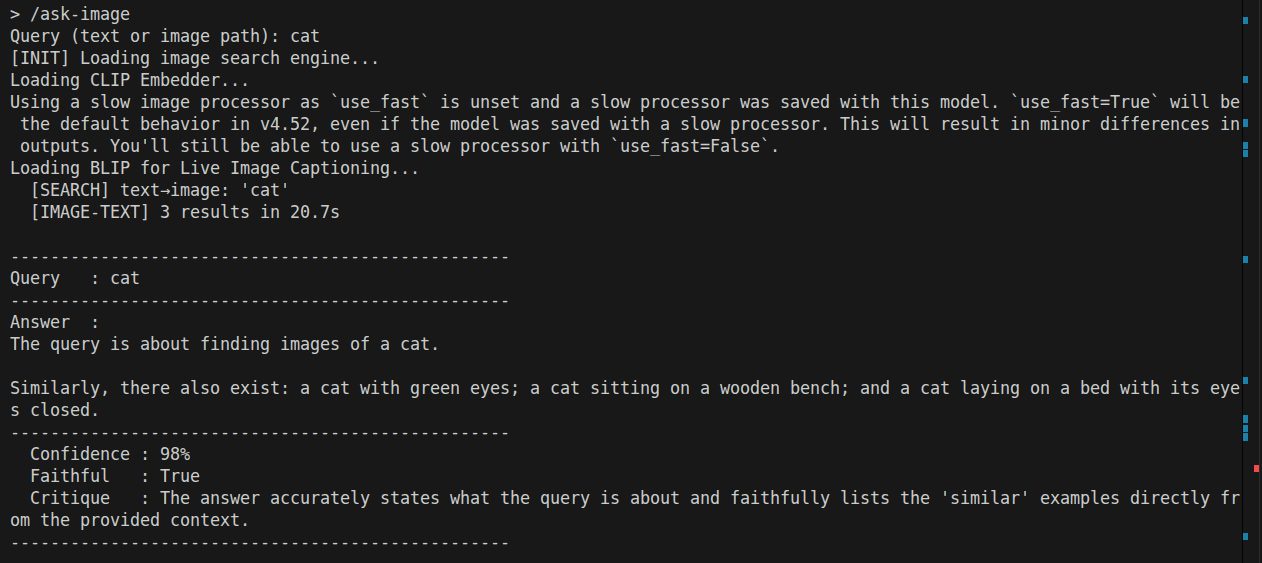
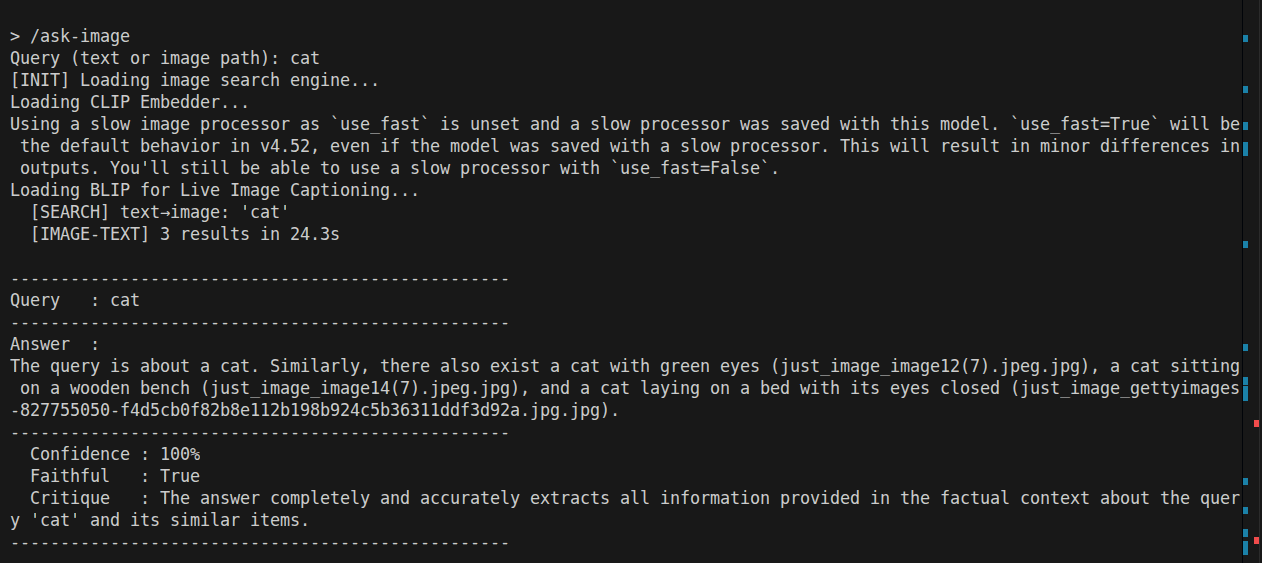
Updated image functionality

diff --git a/week7/src/deployment/app.py b/week7/src/deployment/app.py
@@ -143,10 +143,10 @@ class RAGEngine:
             + f"\nSimilar images found:\n" + "\n".join(similar_parts)
             + "\n\nFirst, briefly describe what the query is about. "
             "Then mention the similar images using a phrase like 'Similarly, there also exist...' "
-            "and describe each briefly."
+            "and describe each briefly, including the filename in parentheses."
         )
         answer = self._llm(prompt)
-        context = f"Query: {query_desc}\nSimilar: {', '.join(r['metadata']['caption'] for r in results)}"
+        context = f"Query: {query_desc}\nSimilar: {', '.join(r['metadata']['filename'] + ': ' + r['metadata']['caption'] for r in results)}"
         ev = self.evaluator.evaluate_response(query, context, answer)
         final_answer = ev.get("fixed_answer", answer)
         mode = "image" if is_image else "text"
